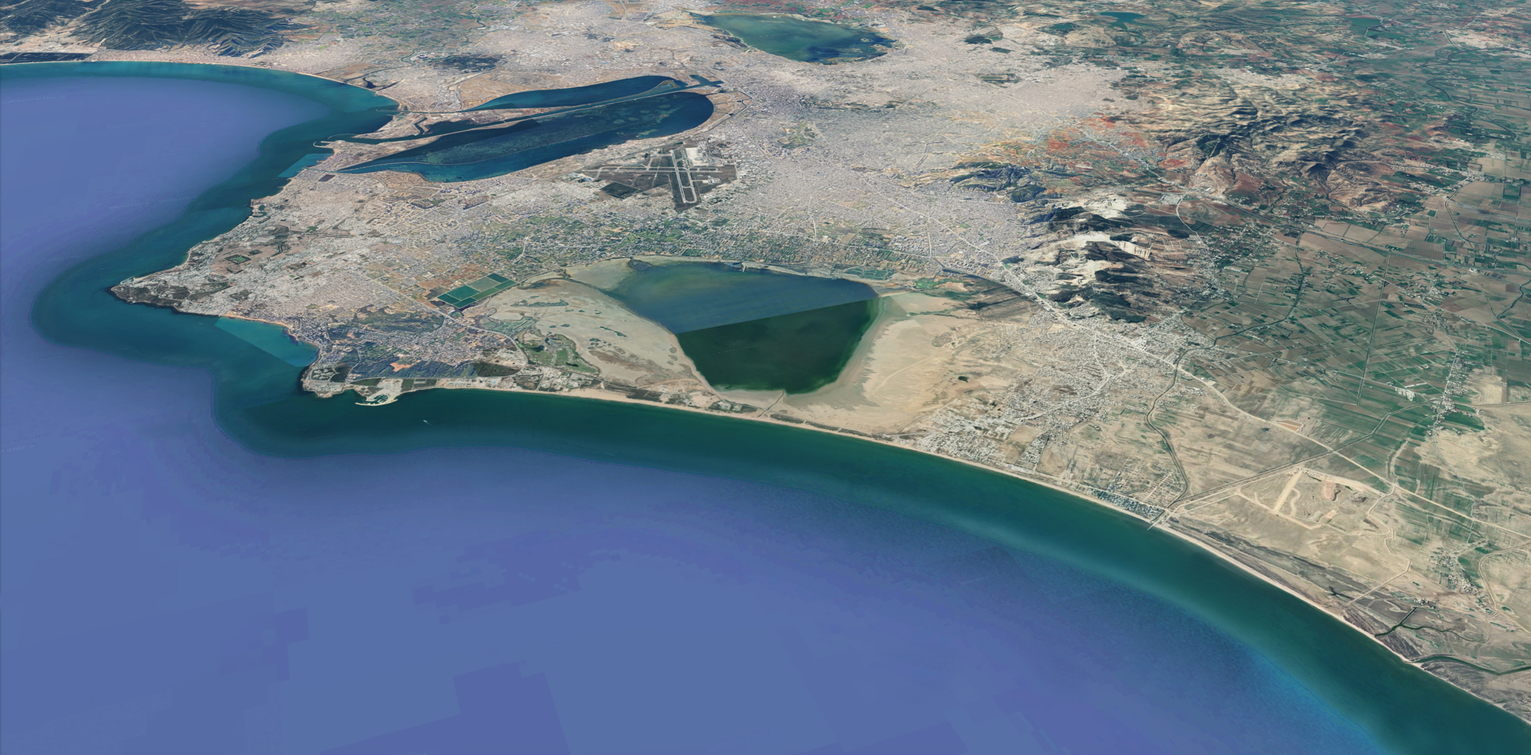
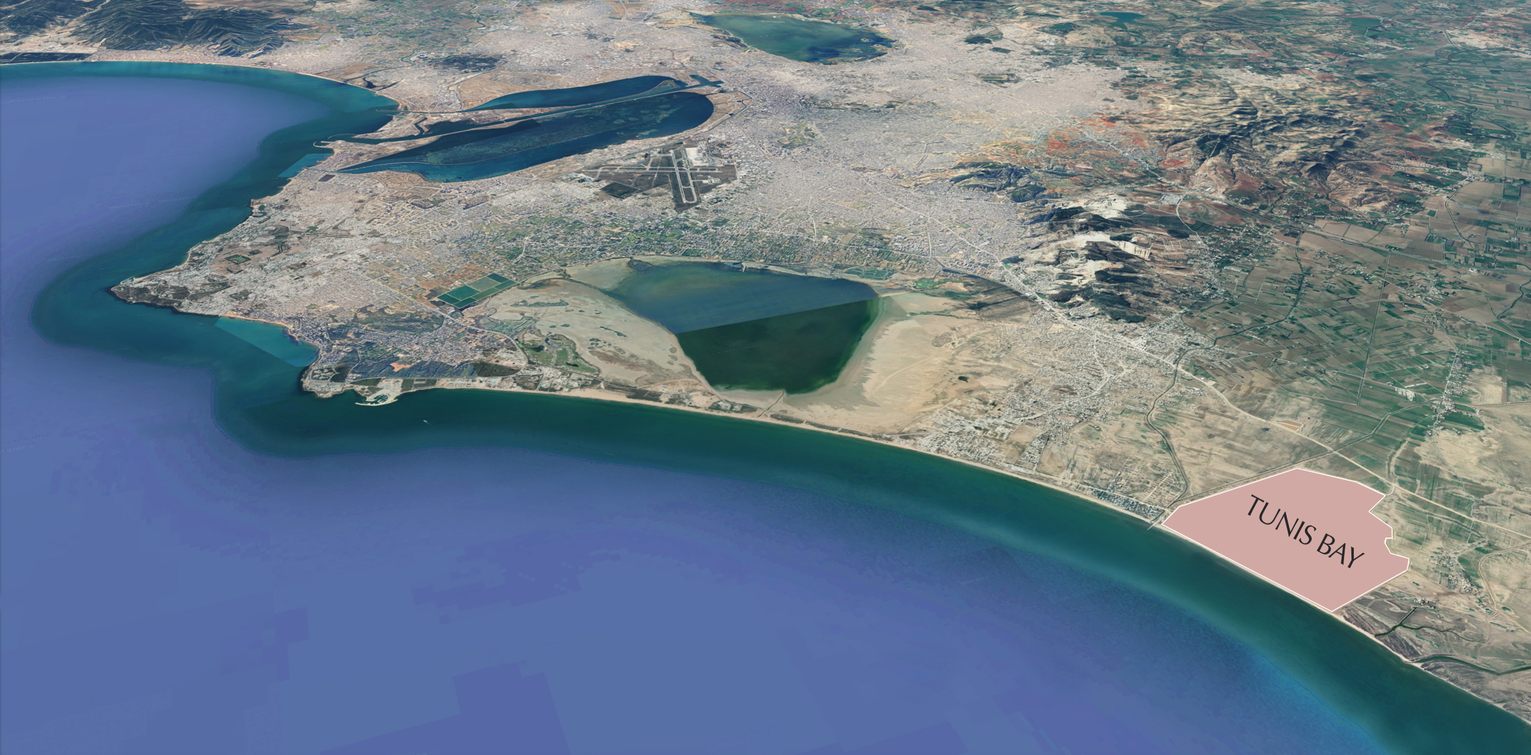
fix hover project

Changed region(s): [[0.747, 0.6149, 0.9338, 0.7994]]

diff --git a/dist/bundle.min.js b/dist/bundle.min.js
@@ -1342,7 +1342,7 @@ a=this,s=/iPhone/i,u=/iPod/i,c=/iPad/i,h=/(?=.*\bAndroid\b)(?=.*\bMobile\b)/i,l=
   !*** ./src/App.ts ***!
   \********************/
 /*! dynamic exports provided */
-/*! all exports used */function(t,e,n){"use strict";Object.defineProperty(e,"__esModule",{value:!0}),n(/*! ./Assets/css/_custom.scss */264),n(/*! ./Assets/css/main.css */267);let r=window.$;const i=n(/*! pixi.js */70);n(/*! pixi-tween */370);const o=n(/*! d3 */371),a=n(/*! ./Tools/Button */663),s=n(/*! ./Tools/LoaderText */664),u=n(/*! ./Tools/DeviceDetect */665);e.Zoomer=class extends i.Application{constructor(t,e,n){super(t,e,n),this.Customloader=new i.loaders.Loader,this.Container=new i.Container,this.ContainerButtons=new i.Container,this.ContainerGuide=new i.Container,this.containerProjectItems=new i.Container,this.filterBackground=new i.filters.ColorMatrixFilter,this.newGraphic=[],this._counterGraphic=0,this.newGraphicObj=[],this.zoomTrans={x:0,y:0,k:.1},this.startDrawing=!1,this.sprites={},this.Graphics=[],this.Buttons=[],this.canvas=null,this.context=null,this.widthCanvas=null,this.heightCanvas=null,this.D3Interval=null,this.isMobile=!1,this.PowredByText=null,this.isZooming=!1,this.options=[],this.locations=[],this.locationsAlpha=.5,this.locationsMakeAlphaBigger=!0}init(t,e){this.options=t;let[n,r]=this.options.size;u.isMobile()&&([n,r]=this.options.sizePhone,n>r&&([n,r]=[r,n])),this.options.width=n,this.options.height=r,this.Container.zIndex=0,this.ContainerButtons.zIndex=1,this.ContainerGuide.zIndex=2,this.width=this.options.width,this.height=this.options.height,this.widthExtentMaximum=this.options.widthExtentMaximum(this.width),this.heightExtentMaximum=this.options.heightExtentMaximum(this.height),this.widthExtent=this.options.widthExtent(this.width),this.heightExtent=this.options.heightExtent(this.height),this.selector=this.options.selectorId,this.isMobile=u.isMobile(),this.appendView(),this.setup(e)}appendView(){document.getElementById(this.selector).appendChild(this.view)}setup(t){const e=this,n=new s.default(e.width,e.height);e.stage.addChild(n),e.stage.addChild(e.Container),this.options.sprites.forEach(t=>{e.Customloader.add(t.name,t.url)}),e.Customloader.load((t,e)=>{Object.keys(e).map(t=>{this.sprites[t]=new i.Sprite(e[t].texture)})}),e.Customloader.onProgress.add(t=>{let e=parseInt(t.progress);n.text=`Loading ${e}%`}),e.Customloader.onComplete.add(r=>{e.stage.removeChild(n),e.addBackground(),e.addGuide(),e.addLocations(),e.addProject(),e.addProjectItem(),e.addButtons(),e.addPowredBy(),e.initZoomAction(),e.resizeCanvas(),e.addTicker(),t()})}addBackground(){const t=this;t.sprites.background.interactive&&t.Container.removeChild(t.sprites.background),t.sprites.background.x=0,t.sprites.background.y=0,t.sprites.background.interactive=!0,t.sprites.background.filters=[this.filterBackground],t.sprites.background.on("pointerdown",e=>{const n=e.data.global.x,r=e.data.global.y;if(t.startDrawing){const e=t.getD3X(n),i=t.getD3Y(r);t.newGraphic.push([e,i]),console.dir(t.newGraphic),t.Container.removeChild(t.newGraphicObj[t._counterGraphic]),t.newGraphicObj[t._counterGraphic]=t.createGraph(t.newGraphic),t.Container.addChild(t.newGraphicObj[t._counterGraphic])}}),t.sprites.background.mouseover=function(){return t.addColorToBackground(),t.options.onMouseOverBackground(location)},t.sprites.background.mouseout=function(){return t.options.onMouseOutBackground(location)},t.Container.addChild(t.sprites.background)}addGuide(){const t=this;t.options.hasOwnProperty("showGuide")&&t.options.showGuide&&(t.sprites.guide.x=t.width/2,t.sprites.guide.y=t.height/2,t.sprites.guide.anchor=new i.Point(.5,.5),t.sprites.guide.interactive=!0,t.sprites.guide.filters=[this.filterBackground],t.sprites.guide.on("pointerdown",e=>{t.ContainerGuide.destroy({children:!0})}),t.sprites.guide.mouseover=function(){},t.sprites.guide.mouseout=function(){return t.options.onMouseOutBackground(location)},t.stage.addChild(t.ContainerGuide),t.ContainerGuide.addChild(t.sprites.guide))}addLocations(){this.options.locations.map(t=>{this.drawLocation(t)})}addProject(){const t=this;let e=this.options.project,n=this.createGraph(e.coords);n&&(n.interactive=!0,n.mouseover=function(){return t.removeColorFromBackground(),n.alpha=.9,t.options.onMouseOverPoject(e)},n.mouseout=function(){return t.addColorToBackground(),n.alpha=.7,t.options.onMouseOutProject(e)},this.Container.addChild(n))}addProjectItem(){const t=this,e=this.options,n=t.sprites;if(e.hasOwnProperty("projectItems")){const r=e.projectItems;r.length&&r.map(e=>{const r=e.sprite,o=e.coords,a=e.hasOwnProperty("rotation")?e.rotation:0;if(n.hasOwnProperty(r)){const n=t.sprites[r];n.interactive=!0,n.x=o.x,n.y=o.y,n.alpha=1,n.anchor=new i.Point(.5,.5),a&&(n.rotation=a),n.mouseover=function(){return t.removeColorFromBackground(),n.alpha=1,t.options.onMouseOverPojectItem(e)},n.mouseout=function(){return t.addColorToBackground(),n.alpha=1,t.options.onMouseOutProjectItem(e)},t.containerProjectItems.addChild(n)}})}t.Container.addChild(t.containerProjectItems)}drawLocation(t){const e=this;let n=new i.Container,{x:r,y:o}=t.point;const a=new i.Graphics;a.lineStyle(2,13740452),a.beginFill(13740452,1),a.drawCircle(r,-30,5),a.endFill(),a.interactive=!0,a.buttonMode=!0;const s=new i.Graphics;s.lineStyle(0,16777215,.7),s.beginFill(16777215,.7),s.drawCircle(r,-30,18),s.endFill(),s.interactive=!0,s.alpha=.5,s.buttonMode=!0;let u=new i.TextStyle({fontFamily:"Arial",fontSize:14,fill:["#ffffff"],wordWrap:!0,wordWrapWidth:200,align:"center"}),c=new i.Text(t.name,"arial");c.anchor=new i.Point(.5,.5),c.x=r+t.position.x,c.y=-30;let h=o+t.position.y;c.style=u,c.interactive=!0,c.buttonMode=!0,n.addChild(s),n.addChild(a),n.addChild(c),n.interactive=!0,n.mouseover=function(){return e.removeColorFromBackground(),e.options.onMouseOverLocation(t)},n.mouseout=function(){return e.options.onMouseOutLocation(t)},e.Container.addChild(n),e.locations.push([s,a,c,n]),this.tweenLocations(s,{y:-30},{y:o+30}),this.tweenLocations(a,{y:-30},{y:o+30}),this.tweenLocations(c,{y:-30},{y:h})}tweenLocations(t,e,n){const r=i.tweenManager.createTween(t);r.from(e).to(n),r.time=500,r.on("start",()=>{}),r.start()}addPowredBy(){let t=new i.TextStyle({fontFamily:"Arial",fontSize:14,fontWeight:"bold",fill:["#646565"]});this.PowredByText=new i.Text("Powred by ConceptLab","arial"),this.PowredByText.anchor=new i.Point(.5,.5),this.PowredByText.x=this.width-200,this.PowredByText.y=this.height-50,this.PowredByText.style=t,this.ContainerButtons.addChild(this.PowredByText)}initZoomAction(){const t=this;t.canvas=o.select(`#${t.selector} canvas`),t.context=t.canvas.node().getContext("2d"),t.widthCanvas=t.canvas.property("width"),t.heightCanvas=t.canvas.property("height"),t.zoomHandler=o.zoom().scaleExtent([.7,3]).translateExtent([[t.widthExtent,t.heightExtent],[t.widthExtentMaximum,t.heightExtentMaximum]]).on("start",()=>t.startZoomActions(t)).on("zoom",()=>t.zoomActions(t)).on("end",()=>t.endZoomActions(t)).filter(()=>!t.D3Interval),t.initZommActionFunctionalities()}initZommActionFunctionalities(){const t=this;let e={k:1,x:0,y:0};this.options.hasOwnProperty("initialData")&&(e=this.options.initialData(t.width,t.height)),u.isMobile()&&(e=this.options.initialDataMobile(t.width,t.height)),t.canvas.call(t.zoomHandler).call(t.zoomHandler.transform,o.zoomIdentity.translate(e.x,e.y).scale(e.k)),t.canvas.on("click",()=>{})}zoomActions(t){const e=o.event.transform.x,n=o.event.transform.y,r=o.event.transform.k;t.zoomTrans=o.event.transform,t.Container.scale.set(r),t.Container.position.set(e,n)}startZoomActions(t){t.isZooming=!0}endZoomActions(t){t.isZooming=!1}addButtons(){const t=this;t.Buttons.length&&(t.Buttons.map(e=>{t.ContainerButtons.removeChild(e)}),t.Buttons=[]);let e=150,n=50,i=10,o=t.height-n-20;t.startDrawing;const s=new a.default(e,n,i,o,"Start drawing",null);t.stage.addChild(t.ContainerButtons),s.on("click",()=>{t.startDrawing=!t.startDrawing,t.startDrawing?s.text.text="Stop drawing":(s.text.text="Start drawing",t._counterGraphic++,t.newGraphic.length&&(r("#property #coords").html(JSON.stringify(t.newGraphic)),r("#property").modal({show:!0})),t.newGraphic=[])}),t.Buttons.push(s),e=250,n=50,i=170,o=t.height-n-20;const u=new a.default(e,n,i,o,"Return to last action",null);u.on("click",()=>{t.newGraphic.length&&(t.newGraphic.splice(-1,1),t.Container.removeChild(t.newGraphicObj[t._counterGraphic]),t.newGraphicObj[t._counterGraphic]=t.createGraph(t.newGraphic),t.newGraphicObj[t._counterGraphic]&&t.Container.addChild(t.newGraphicObj[t._counterGraphic]))}),t.Buttons.push(u),this.options.hasOwnProperty("showButtonPlans")&&this.options.showButtonPlans&&(t.ContainerButtons.addChild(s),t.ContainerButtons.addChild(u))}createGraph(t,e={}){if(t&&t.length){let n=12648448,r=.5;this.options.hasOwnProperty("defaultColor")&&this.options.defaultColor&&(n=this.options.defaultColor),this.options.hasOwnProperty("defaultOpacity")&&this.options.defaultOpacity&&(r=this.options.defaultOpacity),e.hasOwnProperty("info")&&e.info.landUse&&e.info.landUse.color&&(n=(n=e.info.landUse.color).replace(/#/gi,"0x"));const o=new i.Graphics;o.beginFill(n,r),o.lineStyle(2,16777215,r);let a=[];if(t.map(t=>{const[e,n]=t;a.length?o.lineTo(e,t[1]):(a=t,o.moveTo(e,n))}),a){const[t,e]=a;o.lineTo(t,e),o.endFill()}return o}return!1}getD3X(t){return(t-this.zoomTrans.x)/this.zoomTrans.k}getD3Y(t){return(t-this.zoomTrans.y)/this.zoomTrans.k}resizeCanvas(){const t=this;t.rendererResize(t),window.addEventListener("resize",()=>t.rendererResize(t)),window.addEventListener("deviceOrientation",()=>t.rendererResize(t))}addTicker(){let t=this;t.ticker.add(function(e){t.locationsAlpha+.01>1&&(t.locationsMakeAlphaBigger=!1),t.locationsAlpha-.01<.2&&(t.locationsMakeAlphaBigger=!0),t.locationsMakeAlphaBigger?t.locationsAlpha+=.01:t.locationsAlpha-=.01;let n=t.locationsAlpha;t.locations.map(t=>{let[e,r]=t;e.alpha=n}),i.tweenManager.update()})}rendererResize(t){(u.isMobile()||t.options.fullSizeShow)&&(t.width=window.innerWidth,t.height=window.innerHeight);let e=Math.min(window.innerWidth/t.width,window.innerHeight/t.height);e>1&&(e=1),t.Container.scale.x=e,t.Container.scale.y=e,t.ContainerButtons.scale.x=e,t.ContainerButtons.scale.y=e,t.ContainerGuide.scale.x=e,t.ContainerGuide.scale.y=e,t.addButtons(),t.PowredByText.x=t.width-200,t.PowredByText.y=t.height-50;let n=Math.ceil(t.width*e),r=Math.ceil(t.height*e);t.renderer.resize(n,r),t.canvas.call(t.zoomHandler).call(t.zoomHandler.transform,o.zoomIdentity.translate(t.zoomTrans.x,t.zoomTrans.y).scale(t.zoomTrans.k))}removeColorFromBackground(){this.removeColorFromSprite(this.sprites.background)}addColorToBackground(){this.removeFiltersFromSprite(this.sprites.background)}removeColorFromSprite(t){this.filterBackground.desaturate()}removeFiltersFromSprite(t){this.filterBackground.reset()}}},
+/*! all exports used */function(t,e,n){"use strict";Object.defineProperty(e,"__esModule",{value:!0}),n(/*! ./Assets/css/_custom.scss */264),n(/*! ./Assets/css/main.css */267);let r=window.$;const i=n(/*! pixi.js */70);n(/*! pixi-tween */370);const o=n(/*! d3 */371),a=n(/*! ./Tools/Button */663),s=n(/*! ./Tools/LoaderText */664),u=n(/*! ./Tools/DeviceDetect */665);e.Zoomer=class extends i.Application{constructor(t,e,n){super(t,e,n),this.Customloader=new i.loaders.Loader,this.Container=new i.Container,this.ContainerButtons=new i.Container,this.ContainerGuide=new i.Container,this.containerProjectItems=new i.Container,this.filterBackground=new i.filters.ColorMatrixFilter,this.newGraphic=[],this._counterGraphic=0,this.newGraphicObj=[],this.zoomTrans={x:0,y:0,k:.1},this.startDrawing=!1,this.sprites={},this.Graphics=[],this.Buttons=[],this.canvas=null,this.context=null,this.widthCanvas=null,this.heightCanvas=null,this.D3Interval=null,this.isMobile=!1,this.PowredByText=null,this.isZooming=!1,this.options=[],this.locations=[],this.locationsAlpha=.5,this.locationsMakeAlphaBigger=!0}init(t,e){this.options=t;let[n,r]=this.options.size;u.isMobile()&&([n,r]=this.options.sizePhone,n>r&&([n,r]=[r,n])),this.options.width=n,this.options.height=r,this.Container.zIndex=0,this.ContainerButtons.zIndex=1,this.ContainerGuide.zIndex=2,this.width=this.options.width,this.height=this.options.height,this.widthExtentMaximum=this.options.widthExtentMaximum(this.width),this.heightExtentMaximum=this.options.heightExtentMaximum(this.height),this.widthExtent=this.options.widthExtent(this.width),this.heightExtent=this.options.heightExtent(this.height),this.selector=this.options.selectorId,this.isMobile=u.isMobile(),this.appendView(),this.setup(e)}appendView(){document.getElementById(this.selector).appendChild(this.view)}setup(t){const e=this,n=new s.default(e.width,e.height);e.stage.addChild(n),e.stage.addChild(e.Container),this.options.sprites.forEach(t=>{e.Customloader.add(t.name,t.url)}),e.Customloader.load((t,e)=>{Object.keys(e).map(t=>{this.sprites[t]=new i.Sprite(e[t].texture)})}),e.Customloader.onProgress.add(t=>{let e=parseInt(t.progress);n.text=`Loading ${e}%`}),e.Customloader.onComplete.add(r=>{e.stage.removeChild(n),e.addBackground(),e.addGuide(),e.addLocations(),e.addProject(),e.addProjectItem(),e.Container.addChild(e.containerProjectItems),e.addButtons(),e.addPowredBy(),e.initZoomAction(),e.resizeCanvas(),e.addTicker(),t()})}addBackground(){const t=this;t.sprites.background.interactive&&t.Container.removeChild(t.sprites.background),t.sprites.background.x=0,t.sprites.background.y=0,t.sprites.background.interactive=!0,t.sprites.background.filters=[this.filterBackground],t.sprites.background.on("pointerdown",e=>{const n=e.data.global.x,r=e.data.global.y;if(t.startDrawing){const e=t.getD3X(n),i=t.getD3Y(r);t.newGraphic.push([e,i]),console.dir(t.newGraphic),t.Container.removeChild(t.newGraphicObj[t._counterGraphic]),t.newGraphicObj[t._counterGraphic]=t.createGraph(t.newGraphic),t.Container.addChild(t.newGraphicObj[t._counterGraphic])}}),t.sprites.background.mouseover=function(){return t.addColorToBackground(),t.options.onMouseOverBackground(location)},t.sprites.background.mouseout=function(){return t.options.onMouseOutBackground(location)},t.Container.addChild(t.sprites.background)}addGuide(){const t=this;t.options.hasOwnProperty("showGuide")&&t.options.showGuide&&(t.sprites.guide.x=t.width/2,t.sprites.guide.y=t.height/2,t.sprites.guide.anchor=new i.Point(.5,.5),t.sprites.guide.interactive=!0,t.sprites.guide.filters=[this.filterBackground],t.sprites.guide.on("pointerdown",e=>{t.ContainerGuide.destroy({children:!0})}),t.sprites.guide.mouseover=function(){},t.sprites.guide.mouseout=function(){return t.options.onMouseOutBackground(location)},t.stage.addChild(t.ContainerGuide),t.ContainerGuide.addChild(t.sprites.guide))}addLocations(){this.options.locations.map(t=>{this.drawLocation(t)})}addProject(){const t=this;let e=this.options.project,n=this.createGraph(e.coords);n&&(n.interactive=!0,n.alpha=0,n.mouseover=function(){return t.removeColorFromBackground(),t.options.onMouseOverPoject(e)},n.mouseout=function(){return t.addColorToBackground(),t.options.onMouseOutProject(e)},t.containerProjectItems.addChild(n))}addProjectItem(){const t=this,e=this.options,n=t.sprites;if(e.hasOwnProperty("projectItems")){const r=e.projectItems;r.length&&r.map(e=>{const r=e.sprite,o=e.coords,a=e.hasOwnProperty("rotation")?e.rotation:0;if(n.hasOwnProperty(r)){const n=t.sprites[r];n.interactive=!0,n.x=o.x,n.y=o.y,n.alpha=1,n.anchor=new i.Point(.5,.5),a&&(n.rotation=a),n.mouseover=function(){return n.alpha=1,t.options.onMouseOverPojectItem(e)},n.mouseout=function(){return n.alpha=1,t.options.onMouseOutProjectItem(e)},t.containerProjectItems.addChild(n)}})}}drawLocation(t){const e=this;let n=new i.Container,{x:r,y:o}=t.point;const a=new i.Graphics;a.lineStyle(2,13740452),a.beginFill(13740452,1),a.drawCircle(r,-30,5),a.endFill(),a.interactive=!0,a.buttonMode=!0;const s=new i.Graphics;s.lineStyle(0,16777215,.7),s.beginFill(16777215,.7),s.drawCircle(r,-30,18),s.endFill(),s.interactive=!0,s.alpha=.5,s.buttonMode=!0;let u=new i.TextStyle({fontFamily:"Arial",fontSize:14,fill:["#ffffff"],wordWrap:!0,wordWrapWidth:200,align:"center"}),c=new i.Text(t.name,"arial");c.anchor=new i.Point(.5,.5),c.x=r+t.position.x,c.y=-30;let h=o+t.position.y;c.style=u,c.interactive=!0,c.buttonMode=!0,n.addChild(s),n.addChild(a),n.addChild(c),n.interactive=!0,n.mouseover=function(){return e.removeColorFromBackground(),e.options.onMouseOverLocation(t)},n.mouseout=function(){return e.options.onMouseOutLocation(t)},e.Container.addChild(n),e.locations.push([s,a,c,n]),this.tweenLocations(s,{y:-30},{y:o+30}),this.tweenLocations(a,{y:-30},{y:o+30}),this.tweenLocations(c,{y:-30},{y:h})}tweenLocations(t,e,n){const r=i.tweenManager.createTween(t);r.from(e).to(n),r.time=500,r.on("start",()=>{}),r.start()}addPowredBy(){let t=new i.TextStyle({fontFamily:"Arial",fontSize:14,fontWeight:"bold",fill:["#646565"]});this.PowredByText=new i.Text("Powred by ConceptLab","arial"),this.PowredByText.anchor=new i.Point(.5,.5),this.PowredByText.x=this.width-200,this.PowredByText.y=this.height-50,this.PowredByText.style=t,this.ContainerButtons.addChild(this.PowredByText)}initZoomAction(){const t=this;t.canvas=o.select(`#${t.selector} canvas`),t.context=t.canvas.node().getContext("2d"),t.widthCanvas=t.canvas.property("width"),t.heightCanvas=t.canvas.property("height"),t.zoomHandler=o.zoom().scaleExtent([.7,3]).translateExtent([[t.widthExtent,t.heightExtent],[t.widthExtentMaximum,t.heightExtentMaximum]]).on("start",()=>t.startZoomActions(t)).on("zoom",()=>t.zoomActions(t)).on("end",()=>t.endZoomActions(t)).filter(()=>!t.D3Interval),t.initZommActionFunctionalities()}initZommActionFunctionalities(){const t=this;let e={k:1,x:0,y:0};this.options.hasOwnProperty("initialData")&&(e=this.options.initialData(t.width,t.height)),u.isMobile()&&(e=this.options.initialDataMobile(t.width,t.height)),t.canvas.call(t.zoomHandler).call(t.zoomHandler.transform,o.zoomIdentity.translate(e.x,e.y).scale(e.k)),t.canvas.on("click",()=>{})}zoomActions(t){const e=o.event.transform.x,n=o.event.transform.y,r=o.event.transform.k;t.zoomTrans=o.event.transform,t.Container.scale.set(r),t.Container.position.set(e,n)}startZoomActions(t){t.isZooming=!0}endZoomActions(t){t.isZooming=!1}addButtons(){const t=this;t.Buttons.length&&(t.Buttons.map(e=>{t.ContainerButtons.removeChild(e)}),t.Buttons=[]);let e=150,n=50,i=10,o=t.height-n-20;t.startDrawing;const s=new a.default(e,n,i,o,"Start drawing",null);t.stage.addChild(t.ContainerButtons),s.on("click",()=>{t.startDrawing=!t.startDrawing,t.startDrawing?s.text.text="Stop drawing":(s.text.text="Start drawing",t._counterGraphic++,t.newGraphic.length&&(r("#property #coords").html(JSON.stringify(t.newGraphic)),r("#property").modal({show:!0})),t.newGraphic=[])}),t.Buttons.push(s),e=250,n=50,i=170,o=t.height-n-20;const u=new a.default(e,n,i,o,"Return to last action",null);u.on("click",()=>{t.newGraphic.length&&(t.newGraphic.splice(-1,1),t.Container.removeChild(t.newGraphicObj[t._counterGraphic]),t.newGraphicObj[t._counterGraphic]=t.createGraph(t.newGraphic),t.newGraphicObj[t._counterGraphic]&&t.Container.addChild(t.newGraphicObj[t._counterGraphic]))}),t.Buttons.push(u),this.options.hasOwnProperty("showButtonPlans")&&this.options.showButtonPlans&&(t.ContainerButtons.addChild(s),t.ContainerButtons.addChild(u))}createGraph(t,e={}){if(t&&t.length){let n=12648448,r=.5;this.options.hasOwnProperty("defaultColor")&&this.options.defaultColor&&(n=this.options.defaultColor),this.options.hasOwnProperty("defaultOpacity")&&this.options.defaultOpacity&&(r=this.options.defaultOpacity),e.hasOwnProperty("info")&&e.info.landUse&&e.info.landUse.color&&(n=(n=e.info.landUse.color).replace(/#/gi,"0x"));const o=new i.Graphics;o.beginFill(n,r),o.lineStyle(2,16777215,r);let a=[];if(t.map(t=>{const[e,n]=t;a.length?o.lineTo(e,t[1]):(a=t,o.moveTo(e,n))}),a){const[t,e]=a;o.lineTo(t,e),o.endFill()}return o}return!1}getD3X(t){return(t-this.zoomTrans.x)/this.zoomTrans.k}getD3Y(t){return(t-this.zoomTrans.y)/this.zoomTrans.k}resizeCanvas(){const t=this;t.rendererResize(t),window.addEventListener("resize",()=>t.rendererResize(t)),window.addEventListener("deviceOrientation",()=>t.rendererResize(t))}addTicker(){let t=this;t.ticker.add(function(e){t.locationsAlpha+.01>1&&(t.locationsMakeAlphaBigger=!1),t.locationsAlpha-.01<.2&&(t.locationsMakeAlphaBigger=!0),t.locationsMakeAlphaBigger?t.locationsAlpha+=.01:t.locationsAlpha-=.01;let n=t.locationsAlpha;t.locations.map(t=>{let[e,r]=t;e.alpha=n}),i.tweenManager.update()})}rendererResize(t){(u.isMobile()||t.options.fullSizeShow)&&(t.width=window.innerWidth,t.height=window.innerHeight);let e=Math.min(window.innerWidth/t.width,window.innerHeight/t.height);e>1&&(e=1),t.Container.scale.x=e,t.Container.scale.y=e,t.ContainerButtons.scale.x=e,t.ContainerButtons.scale.y=e,t.ContainerGuide.scale.x=e,t.ContainerGuide.scale.y=e,t.addButtons(),t.PowredByText.x=t.width-200,t.PowredByText.y=t.height-50;let n=Math.ceil(t.width*e),r=Math.ceil(t.height*e);t.renderer.resize(n,r),t.canvas.call(t.zoomHandler).call(t.zoomHandler.transform,o.zoomIdentity.translate(t.zoomTrans.x,t.zoomTrans.y).scale(t.zoomTrans.k))}removeColorFromBackground(){this.removeColorFromSprite(this.sprites.background)}addColorToBackground(){this.removeFiltersFromSprite(this.sprites.background)}removeColorFromSprite(t){this.filterBackground.desaturate()}removeFiltersFromSprite(t){this.filterBackground.reset()}}},
 /*!*************************************!*\
   !*** ./src/Assets/css/_custom.scss ***!
   \*************************************/

diff --git a/dist/index.html b/dist/index.html
@@ -13,6 +13,6 @@
         <script src=https://cdnjs.cloudflare.com/ajax/libs/popper.js/1.12.9/umd/popper.min.js integrity=sha384-ApNbgh9B+Y1QKtv3Rn7W3mgPxhU9K/ScQsAP7hUibX39j7fakFPskvXusvfa0b4Q crossorigin=anonymous></script>
         <script src=https://maxcdn.bootstrapcdn.com/bootstrap/4.0.0/js/bootstrap.min.js integrity=sha384-JZR6Spejh4U02d8jOt6vLEHfe/JQGiRRSQQxSfFWpi1MquVdAyjUar5+76PVCmYl crossorigin=anonymous></script>
         <script src=https://cdnjs.cloudflare.com/ajax/libs/jqueryui/1.12.1/jquery-ui.min.js></script>
-        <script>$(document).ready(function(){new Map.Zoomer(0,0,{transparent:!0,autoResize:!0}).init({selectorId:"container_map",size:[1366,768],sizePhone:[window.innerWidth,window.innerHeight],fullSizeShow:!0,sprites:[{name:"background",url:"./assets/pictures/big_map_with_names.jpg",x:0,y:0},{name:"guide",url:"./assets/pictures/guide.png",x:0,y:0},{name:"item_1",url:"./assets/pictures/1.png",x:0,y:0},{name:"item_2",url:"./assets/pictures/2.png",x:0,y:0},{name:"item_3",url:"./assets/pictures/3.png",x:0,y:0},{name:"item_4",url:"./assets/pictures/4.png",x:0,y:0},{name:"item_tunis_bay",url:"./assets/pictures/tunis_bay.png",x:0,y:0}],locations:[{name:"GAMMARTH",point:{x:831,y:603},position:{x:0,y:-30}},{name:"MARSA",point:{x:586,y:534},position:{x:0,y:-30}},{name:"CARTHAGE",point:{x:364,y:417},position:{x:0,y:-40}},{name:"LE KRAM",point:{x:479,y:314},position:{x:0,y:-30}},{name:"LA SOUKRA",point:{x:909,y:412},position:{x:0,y:-30}},{name:"LA GOULETTE",point:{x:576,y:255},position:{x:0,y:-30}},{name:"RADES",point:{x:694,y:144},position:{x:0,y:-30}},{name:"LES BERGES DU LAC",point:{x:929,y:279},position:{x:0,y:-30}},{name:"AEROPORT TUNIS-CARTHAGE",point:{x:1146,y:273},position:{x:0,y:-30}},{name:"TUNIS",point:{x:1256,y:154},position:{x:40,y:0}},{name:"EL MENZAH",point:{x:1453,y:217},position:{x:0,y:-30}},{name:"ARIANA",point:{x:2304,y:218},position:{x:0,y:-30}},{name:"LE BARDO",point:{x:1476,y:136},position:{x:0,y:-30}},{name:"RAOUED",point:{x:1694,y:628},position:{x:0,y:-30}},{name:"CARTHAGE LAND",point:{x:1074,y:222},position:{x:0,y:-30}},{name:"MANAR 1",point:{x:1501,y:177},position:{x:0,y:-30}},{name:"CITE NASER",point:{x:1825,y:109},position:{x:0,y:-30}}],project:{name:"TunisBay",coords:[[1904.2358101516438,855.6433008624707],[1932.2358101516438,827.976634195804],[2030.569143484977,795.6433008624707],[2124.9024768183103,764.976634195804],[2222.9024768183103,788.3099675291373],[2267.235810151644,808.3099675291373],[2276.235810151644,804.976634195804],[2279.5691434849773,795.3099675291373],[2283.235810151644,795.6433008624707],[2279.9024768183103,805.6433008624707],[2270.235810151644,811.3099675291373],[2242.9024768183103,837.6433008624707],[2280.235810151644,866.6433008624707],[2280.5691434849773,879.6433008624707],[2269.5691434849773,882.6433008624707],[2268.5691434849773,887.3099675291373],[2278.5691434849773,904.976634195804],[2307.5691434849773,916.6433008624707],[2303.9024768183103,933.6433008624707],[2183.5691434849773,1002.6433008624707]]},projectItems:[{name:"item 1",sprite:"item_1",coords:{x:1983,y:844}},{name:"item 2",sprite:"item_2",coords:{x:2136,y:801}},{name:"item 3",sprite:"item_3",coords:{x:2268,y:871}},{name:"item 4",sprite:"item_4",coords:{x:2174,y:951}},{name:"TunisBay",sprite:"item_tunis_bay",coords:{x:2143,y:871},rotation:.5}],widthExtent:function(t){return 0},heightExtent:function(t){return 0},widthExtentMaximum:function(t){return t<400?t+2e3:t+1150},heightExtentMaximum:function(t){return t<700?t+600:t+500},initialData:function(t,n){if(window.innerWidth<1400)var o=.7,i=-250,e=0;else o=1,i=-400,e=-100;return{k:o,x:i,y:e}},initialDataMobile:function(t,n){return{k:.7,x:0,y:0}},showGuide:!1,defaultColor:13740452,defaultOpacity:.8,showButtonPlans:!0,onMouseOverLocation:function(t){$("#container_map canvas").tooltip({track:!0,context:function(){return" "}}).tooltip("option","content",t.name).tooltip("enable"),$(".ui-tooltip").show()},onMouseOutLocation:function(t){$(".ui-tooltip").hide()},onMouseOverBackground:function(t){$(".ui-tooltip").hide()},onMouseOutBackground:function(t){console.log("onMouseOutBackground")},onMouseOverPoject:function(t){$("#container_map canvas").tooltip({track:!0,context:function(){return" "}}).tooltip("option","content",t.name).tooltip("enable"),$(".ui-tooltip").show()},onMouseOutProject:function(t){$(".ui-tooltip").hide()},onMouseOverPojectItem:function(t){$("#container_map canvas").tooltip({track:!0,context:function(){return" "}}).tooltip("option","content",t.name).tooltip("enable"),$(".ui-tooltip").show()},onMouseOutProjectItem:function(t){$(".ui-tooltip").hide()}},function(){$("#container_map canvas").addClass("row"),$("#container_map canvas").attr("id","canvas-container"),$("#container_map canvas").css("margin","0"),$("#container_map canvas").attr("title"," "),$("#container_map canvas").tooltip({track:!0,context:function(){return" "}}),$(".ui-tooltip").hide()})})</script>
+        <script>$(document).ready(function(){new Map.Zoomer(0,0,{transparent:!0,autoResize:!0}).init({selectorId:"container_map",size:[1366,768],sizePhone:[window.innerWidth,window.innerHeight],fullSizeShow:!0,sprites:[{name:"background",url:"./assets/pictures/big_map.jpg",x:0,y:0},{name:"guide",url:"./assets/pictures/guide.png",x:0,y:0},{name:"item_1",url:"./assets/pictures/1.png",x:0,y:0},{name:"item_2",url:"./assets/pictures/2.png",x:0,y:0},{name:"item_3",url:"./assets/pictures/3.png",x:0,y:0},{name:"item_4",url:"./assets/pictures/4.png",x:0,y:0}],locations:[{name:"GAMMARTH",point:{x:831,y:603},position:{x:0,y:-30}},{name:"MARSA",point:{x:586,y:534},position:{x:0,y:-30}},{name:"CARTHAGE",point:{x:364,y:417},position:{x:0,y:-40}},{name:"LE KRAM",point:{x:479,y:314},position:{x:0,y:-30}},{name:"LA SOUKRA",point:{x:909,y:412},position:{x:0,y:-30}},{name:"LA GOULETTE",point:{x:576,y:255},position:{x:0,y:-30}},{name:"RADES",point:{x:694,y:144},position:{x:0,y:-30}},{name:"LES BERGES DU LAC",point:{x:929,y:279},position:{x:0,y:-30}},{name:"AEROPORT TUNIS-CARTHAGE",point:{x:1146,y:273},position:{x:0,y:-30}},{name:"TUNIS",point:{x:1256,y:154},position:{x:40,y:0}},{name:"EL MENZAH",point:{x:1453,y:217},position:{x:0,y:-30}},{name:"ARIANA",point:{x:2304,y:218},position:{x:0,y:-30}},{name:"LE BARDO",point:{x:1476,y:136},position:{x:0,y:-30}},{name:"RAOUED",point:{x:1694,y:628},position:{x:0,y:-30}},{name:"CARTHAGE LAND",point:{x:1074,y:222},position:{x:0,y:-30}},{name:"MANAR 1",point:{x:1501,y:177},position:{x:0,y:-30}},{name:"CITE NASER",point:{x:1825,y:109},position:{x:0,y:-30}}],project:{name:"TunisBay",coords:[[1901.9400164321412,856.7766966202232],[1930.6681850209131,828.0485280314512],[2122.6245842277085,763.627786347538],[2170.0695899273474,775.8154942336837],[2221.8673484434667,788.4384774014775],[2266.265427171569,808.4611403572884],[2271.488730551346,807.5905897939922],[2274.5356575228825,806.284763949048],[2278.453135057715,794.0970560629023],[2281.5000620292517,795.8381571894946],[2280.6295114659556,801.9320111325675],[2277.1473092127712,807.1553145123443],[2274.535657522883,810.2022414838807],[2268.44180357981,810.6375167655287],[2264.5243260449774,814.5549943003613],[2258.430472101905,817.6019212718977],[2241.019460835982,838.9304100726528],[2280.1942361843076,867.6585786614248],[2279.7589609026595,878.9757359842745],[2268.877078861458,882.457938237459],[2268.877078861458,893.7750955603087],[2277.147309212771,906.8333540097506],[2307.6165789281354,918.5857866142481],[2302.8285508300064,934.6909720352265],[2182.1144837495553,1001.4309904095153],[1900.6964412341247,857.9431554465309]]},projectItems:[{name:"item 1",sprite:"item_1",coords:{x:1983,y:844}},{name:"item 2",sprite:"item_2",coords:{x:2136,y:801}},{name:"item 3",sprite:"item_3",coords:{x:2268,y:871}},{name:"item 4",sprite:"item_4",coords:{x:2174,y:951}}],widthExtent:function(n){return 0},heightExtent:function(n){return 0},widthExtentMaximum:function(n){return n<400?n+2e3:n+1150},heightExtentMaximum:function(n){return n<700?n+600:n+500},initialData:function(n,t){if(window.innerWidth<1400)var o=.7,i=-250,e=0;else o=1,i=-400,e=-100;return{k:o,x:i,y:e}},initialDataMobile:function(n,t){return{k:.7,x:0,y:0}},showGuide:!1,defaultColor:13740452,defaultOpacity:.8,showButtonPlans:!0,onMouseOverLocation:function(n){$("#container_map canvas").tooltip({track:!0,context:function(){return" "}}).tooltip("option","content",n.name).tooltip("enable"),$(".ui-tooltip").show()},onMouseOutLocation:function(n){$(".ui-tooltip").hide()},onMouseOverBackground:function(n){$(".ui-tooltip").hide()},onMouseOutBackground:function(n){console.log("onMouseOutBackground")},onMouseOverPoject:function(n){console.log("onMouseOverPoject")},onMouseOutProject:function(n){console.log("onMouseOutProject")},onMouseOverPojectItem:function(n){$("#container_map canvas").tooltip({track:!0,context:function(){return" "}}).tooltip("option","content",n.name).tooltip("enable"),$(".ui-tooltip").show()},onMouseOutProjectItem:function(n){$(".ui-tooltip").hide()}},function(){$("#container_map canvas").addClass("row"),$("#container_map canvas").attr("id","canvas-container"),$("#container_map canvas").css("margin","0"),$("#container_map canvas").attr("title"," "),$("#container_map canvas").tooltip({track:!0,context:function(){return" "}}),$(".ui-tooltip").hide()})})</script>
     <script type="text/javascript" src="bundle.min.js"></script></body>
 </html>

diff --git a/index.html b/index.html
@@ -21,13 +21,13 @@
                     sizePhone: [window.innerWidth, window.innerHeight],
                     fullSizeShow: true,
                     sprites: [
-                        {"name": "background", "url": "./assets/pictures/big_map_with_names.jpg", "x": 0, "y": 0},
+                        {"name": "background", "url": "./assets/pictures/big_map.jpg", "x": 0, "y": 0},
                         {"name": "guide", "url": "./assets/pictures/guide.png", "x": 0, "y": 0},
                         {"name": "item_1", "url": "./assets/pictures/1.png", "x": 0, "y": 0},
                         {"name": "item_2", "url": "./assets/pictures/2.png", "x": 0, "y": 0},
                         {"name": "item_3", "url": "./assets/pictures/3.png", "x": 0, "y": 0},
                         {"name": "item_4", "url": "./assets/pictures/4.png", "x": 0, "y": 0},
-                        {"name": "item_tunis_bay", "url": "./assets/pictures/tunis_bay.png", "x": 0, "y": 0},
+                        // {"name": "item_tunis_bay", "url": "./assets/pictures/tunis_bay.png", "x": 0, "y": 0},
                     ],
                     locations: [
                         {"name": "GAMMARTH", "point":  {x: 831, y: 603}, "position": {x: 0, y: -30}},
@@ -49,53 +49,32 @@
                         {"name": "CITE NASER", "point": {x: 1825, y: 109}, "position": {x: 0, y: -30}},
                     ],
                     project: {"name": "TunisBay", "coords": [
-                            [1904.2358101516438, 855.6433008624707],[1932.2358101516438, 827.976634195804],
-                            [2030.569143484977, 795.6433008624707],
-                            [2124.9024768183103, 764.976634195804],
-                            [2222.9024768183103, 788.3099675291373],
-                            [2267.235810151644, 808.3099675291373],
-                            [2276.235810151644, 804.976634195804],
-                            [2279.5691434849773, 795.3099675291373],
-                            [2283.235810151644, 795.6433008624707],
-                            [2279.9024768183103, 805.6433008624707],
-                            [2270.235810151644, 811.3099675291373],
-                            [2242.9024768183103, 837.6433008624707],
-                            [2280.235810151644, 866.6433008624707],
-                            [2280.5691434849773, 879.6433008624707],
-                            [2269.5691434849773, 882.6433008624707],
-                            [2268.5691434849773, 887.3099675291373],
-                            [2278.5691434849773, 904.976634195804],
-                            [2307.5691434849773, 916.6433008624707],
-                            [2303.9024768183103, 933.6433008624707],
-                            [2183.5691434849773, 1002.6433008624707]
-                            /*[1333, 623],
-                            [1362, 594],
-                            [1435, 569],
-                            [1554, 530],
-                            [1607, 543],
-                            [1652, 553],
-                            [1696, 573],
-                            [1703, 573],
-                            [1708, 565],
-                            [1711, 547],
-                            [1715, 545],
-                            [1715, 549],
-                            [1711, 567],
-                            [1707, 574],
-                            [1697, 579],
-                            [1674, 602],
-                            [1672, 606],
-                            [1676, 609],
-                            [1709, 631],
-                            [1710, 634],
-                            [1710, 647],
-                            [1699, 648],
-                            [1698, 654],
-                            [1700, 662],
-                            [1706, 670],
-                            [1737, 683],
-                            [1733, 700],
-                            [1617, 767],*/
+                            [1901.9400164321412, 856.7766966202232],
+                            [1930.6681850209131, 828.0485280314512],
+                            [2122.6245842277085, 763.627786347538],
+                            [2170.0695899273474, 775.8154942336837],
+                            [2221.8673484434667, 788.4384774014775],
+                            [2266.265427171569, 808.4611403572884],
+                            [2271.488730551346, 807.5905897939922],
+                            [2274.5356575228825, 806.284763949048],
+                            [2278.453135057715, 794.0970560629023],
+                            [2281.5000620292517, 795.8381571894946],
+                            [2280.6295114659556, 801.9320111325675],
+                            [2277.1473092127712, 807.1553145123443],
+                            [2274.535657522883, 810.2022414838807],
+                            [2268.44180357981, 810.6375167655287],
+                            [2264.5243260449774, 814.5549943003613],
+                            [2258.430472101905, 817.6019212718977],
+                            [2241.019460835982, 838.9304100726528],
+                            [2280.1942361843076, 867.6585786614248],
+                            [2279.7589609026595, 878.9757359842745],
+                            [2268.877078861458, 882.457938237459],
+                            [2268.877078861458, 893.7750955603087],
+                            [2277.147309212771, 906.8333540097506],
+                            [2307.6165789281354, 918.5857866142481],
+                            [2302.8285508300064, 934.6909720352265],
+                            [2182.1144837495553, 1001.4309904095153],
+                            [1900.6964412341247, 857.9431554465309]
                         ]
                     },
                     projectItems: [
@@ -103,7 +82,7 @@
                         {"name": "item 2", "sprite": "item_2", "coords":{x: 2136, y: 801}},
                         {"name": "item 3", "sprite": "item_3", "coords":{x: 2268, y: 871}},
                         {"name": "item 4", "sprite": "item_4", "coords":{x: 2174, y: 951}},
-                        {"name": "TunisBay", "sprite": "item_tunis_bay", "coords":{x: 2143, y: 871}, "rotation": 0.5},
+                        // {"name": "TunisBay", "sprite": "item_tunis_bay", "coords":{x: 2143, y: 871}, "rotation": 0.5},
                     ],
                     widthExtent: function(width){
                         return 0;
@@ -169,7 +148,7 @@
                         console.log('onMouseOutBackground');
                     },
                     onMouseOverPoject: function(element){
-                        // console.log('onMouseOverLocation');
+                        console.log('onMouseOverPoject');
                         /*
                         $("#container_map canvas").tooltip({
                             track: true,
@@ -180,6 +159,7 @@
                         $('.ui-tooltip').show();*/
                     },
                     onMouseOutProject: function(element){
+                        console.log('onMouseOutProject');
                         // console.log('onMouseOutLocation');
                         // $('.ui-tooltip').hide();
                     },
@@ -213,6 +193,7 @@
                     $('.ui-tooltip').hide();
                 });
             })
+
         </script>
     </body>
 </html>

diff --git a/src/App.ts b/src/App.ts
@@ -97,6 +97,7 @@ class Zoomer extends PIXI.Application {
         $this.stage.addChild(text);
 
         $this.stage.addChild($this.Container);
+
         (this.options as any).sprites.forEach((e) => {
             $this.Customloader.add(e.name, e.url);
         });
@@ -119,6 +120,7 @@ class Zoomer extends PIXI.Application {
             $this.addLocations();
             $this.addProject();
             $this.addProjectItem();
+            $this.Container.addChild($this.containerProjectItems);
             $this.addButtons();
             $this.addPowredBy();
             $this.initZoomAction();
@@ -217,17 +219,19 @@ class Zoomer extends PIXI.Application {
         let graph = this.createGraph(project.coords);
         if(graph){
             graph.interactive = true;
+            graph.alpha = 0;
+
             graph.mouseover = function () {
                 $this.removeColorFromBackground();
-                graph.alpha = .9;
+                // graph.alpha = .9;
                 return ($this.options as any).onMouseOverPoject(project);
             };
             graph.mouseout = function() {
                 $this.addColorToBackground();
-                graph.alpha = .7;
+                // graph.alpha = .7;
                 return ($this.options as any).onMouseOutProject(project);
             };
-            this.Container.addChild(graph);
+            $this.containerProjectItems.addChild(graph);
         }
 
     }
@@ -251,22 +255,18 @@ class Zoomer extends PIXI.Application {
                         sprite.anchor = new PIXI.Point(0.5, 0.5);
                         (rotation) ? sprite.rotation = rotation : false;
                         sprite.mouseover = function () {
-                            $this.removeColorFromBackground();
                             sprite.alpha = 1;
                             return ($this.options as any).onMouseOverPojectItem(element);
                         };
                         sprite.mouseout = function() {
-                            $this.addColorToBackground();
                             sprite.alpha = 1;
                             return ($this.options as any).onMouseOutProjectItem(element);
                         };
                         $this.containerProjectItems.addChild(sprite);
-
                     }
                 })
             }
         }
-        $this.Container.addChild($this.containerProjectItems);
     }
 
     private drawLocation(location){
